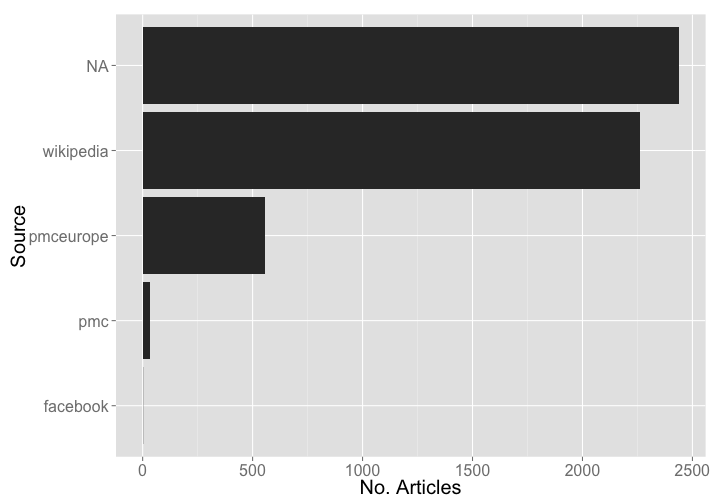
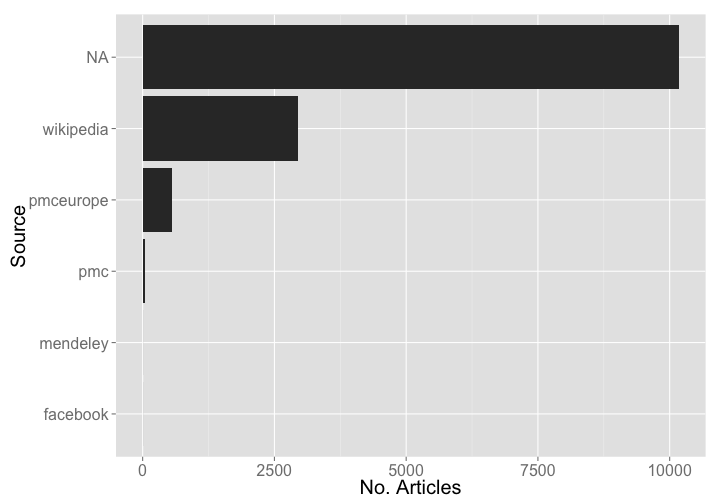
updated crossref report

diff --git a/alerts/crossref_report.md b/alerts/crossref_report.md
@@ -5,7 +5,7 @@ Crossref Report
 
 ### Date 
 
-Compiled on 2014-10-08 22:06:38
+Compiled on 2014-10-16 10:41:25
 
 ### Setup
 
@@ -55,44 +55,59 @@ res <- lapply(1:meta$total_pages, function(x) alm_alerts(page=x, url=url, user=u
 ```
 
 ```
-## Source: local data frame [5,292 x 8]
+## Source: local data frame [13,725 x 8]
 ## 
-##       id level                  class_name                      article
-## 1  49206 ERROR ActiveRecord::RecordInvalid                           NA
-## 2  49207 ERROR ActiveRecord::RecordInvalid                           NA
-## 3  49205 ERROR ActiveRecord::RecordInvalid                           NA
-## 4  49204 ERROR ActiveRecord::RecordInvalid                           NA
-## 5  49203 ERROR               StandardError                           NA
-## 6  49202 ERROR               StandardError                           NA
-## 7  49201  WARN Net::HTTPServiceUnavailable 10.1080/1551806x.2014.897883
-## 8  49198  WARN     Net::HTTPRequestTimeOut                           NA
-## 9  49199  WARN     Net::HTTPRequestTimeOut                           NA
-## 10 49200  WARN     Net::HTTPRequestTimeOut                           NA
-## ..   ...   ...                         ...                          ...
-## Variables not shown: status (dbl), source (chr), create_date (chr),
-##   target_url (chr)
+##       id level    class_name article status source          create_date target_url
+## 1  57640 ERROR StandardError      NA     NA     NA 2014-10-14T02:00:13Z         NA
+## 2  57639 ERROR StandardError      NA     NA     NA 2014-10-14T02:00:10Z         NA
+## 3  57638 ERROR StandardError      NA     NA     NA 2014-10-13T22:00:17Z         NA
+## 4  57637 ERROR StandardError      NA     NA     NA 2014-10-13T22:00:17Z         NA
+## 5  57636 ERROR StandardError      NA     NA     NA 2014-10-13T18:00:18Z         NA
+## 6  57635 ERROR StandardError      NA     NA     NA 2014-10-13T18:00:16Z         NA
+## 7  57634 ERROR StandardError      NA     NA     NA 2014-10-13T14:00:16Z         NA
+## 8  57633 ERROR StandardError      NA     NA     NA 2014-10-13T14:00:15Z         NA
+## 9  57632 ERROR StandardError      NA     NA     NA 2014-10-13T10:00:15Z         NA
+## 10 57631 ERROR StandardError      NA     NA     NA 2014-10-13T10:00:15Z         NA
+## ..   ...   ...           ...     ...    ...    ...                  ...        ...
 ```
 
-### Visual exploration of alerts
-
-#### type of alerts
+### Types of errors
 
 
 ```r
-library(ggplot2)
-resdf %>%
+tabl <- resdf %>%
   group_by(class_name) %>%
-  summarise(number = length(class_name)) %>%
-  ggplot(aes(reorder(class_name, number), number)) +
-    geom_histogram(stat = "identity") + 
-    coord_flip() +
-    theme_grey(base_size = 20) +
-    labs(x = "Alert", y = "No. Articles")
+  summarise(n = n()) %>%
+  arrange(desc(n))
+
+kable(tabl, format = "markdown")
 ```
 
-![plot of chunk alerttypes](figure/alerttypes.png) 
 
-#### alerts by source
+
+|class_name                              |    n|
+|:---------------------------------------|----:|
+|ActiveRecord::RecordInvalid             | 6916|
+|Net::HTTPForbidden                      | 2260|
+|Net::HTTPServiceUnavailable             | 1153|
+|Faraday::ResourceNotFound               | 1005|
+|Net::HTTPBadGateway                     |  545|
+|Net::HTTPConflict                       |  544|
+|Net::HTTPRequestTimeOut                 |  386|
+|Faraday::ClientError                    |  285|
+|ActiveRecord::StatementInvalid          |  197|
+|Net::HTTPNotAcceptable                  |  166|
+|Net::HTTPInternalServerError            |   79|
+|Net::HTTPUnauthorized                   |   79|
+|StandardError                           |   61|
+|FaradayMiddleware::RedirectLimitReached |   21|
+|Errno::EACCES                           |   17|
+|Net::HTTPBadRequest                     |    6|
+|TooManyErrorsBySourceError              |    3|
+|ActionView::Template::Error             |    2|
+
+
+### Alerts by source
 
 By source alone
 
@@ -102,8 +117,8 @@ By source alone
 ```r
 resdf %>%
   group_by(source) %>%
-  summarise(number = length(source)) %>%
-  ggplot(aes(reorder(source, number), number)) +
+  summarise(n = n()) %>%
+  ggplot(aes(reorder(source, n), n)) +
     geom_histogram(stat = "identity") + 
     coord_flip() +
     theme_grey(base_size = 20) +
@@ -118,8 +133,8 @@ source X alert class
 ```r
 resdf %>%
   group_by(source, class_name) %>%
-  summarise(number = length(source)) %>%
-  ggplot(aes(reorder(class_name, number), number, fill=source)) +
+  summarise(n = n()) %>%
+  ggplot(aes(reorder(class_name, n), n, fill=source)) +
     geom_histogram(stat = "identity") + 
     coord_flip() +
     theme_grey(base_size = 20) +
@@ -129,7 +144,7 @@ resdf %>%
 
 ![plot of chunk sourcebyclass](figure/sourcebyclass.png) 
 
-Dig into `Net::HTTPForbidden`
+### Dig into Net::HTTPForbidden errors
 
 
 ```r
@@ -147,7 +162,7 @@ library('jsonlite')
 ```
 
 ```r
-res <- GET('http://det.labs.crossref.org//api/v5/publishers', query=list(api_key=cr_v5_key))
+res <- GET('http://det.labs.crossref.org/api/v5/publishers', query=list(api_key=cr_v5_key))
 prefixes <- fromJSON(content(res, "text"))$data[,c('name','prefixes')]
 pre <- prefixes$prefixes
 names(pre) <- prefixes$name
@@ -188,6 +203,4 @@ unique(alldf$publisher)
 ## [1] "Wiley-Blackwell"
 ```
 
-> Note: How all these `Net::HTTPForbidden` erors are 403 errors, and all from Wiley, trying to get Wikipedia data source
-
-The only alert class with article IDs is `Net::HTTPForbidden`.
+> Note: All `Net::HTTPForbidden` are from Wiley, trying to get Wikipedia data source
